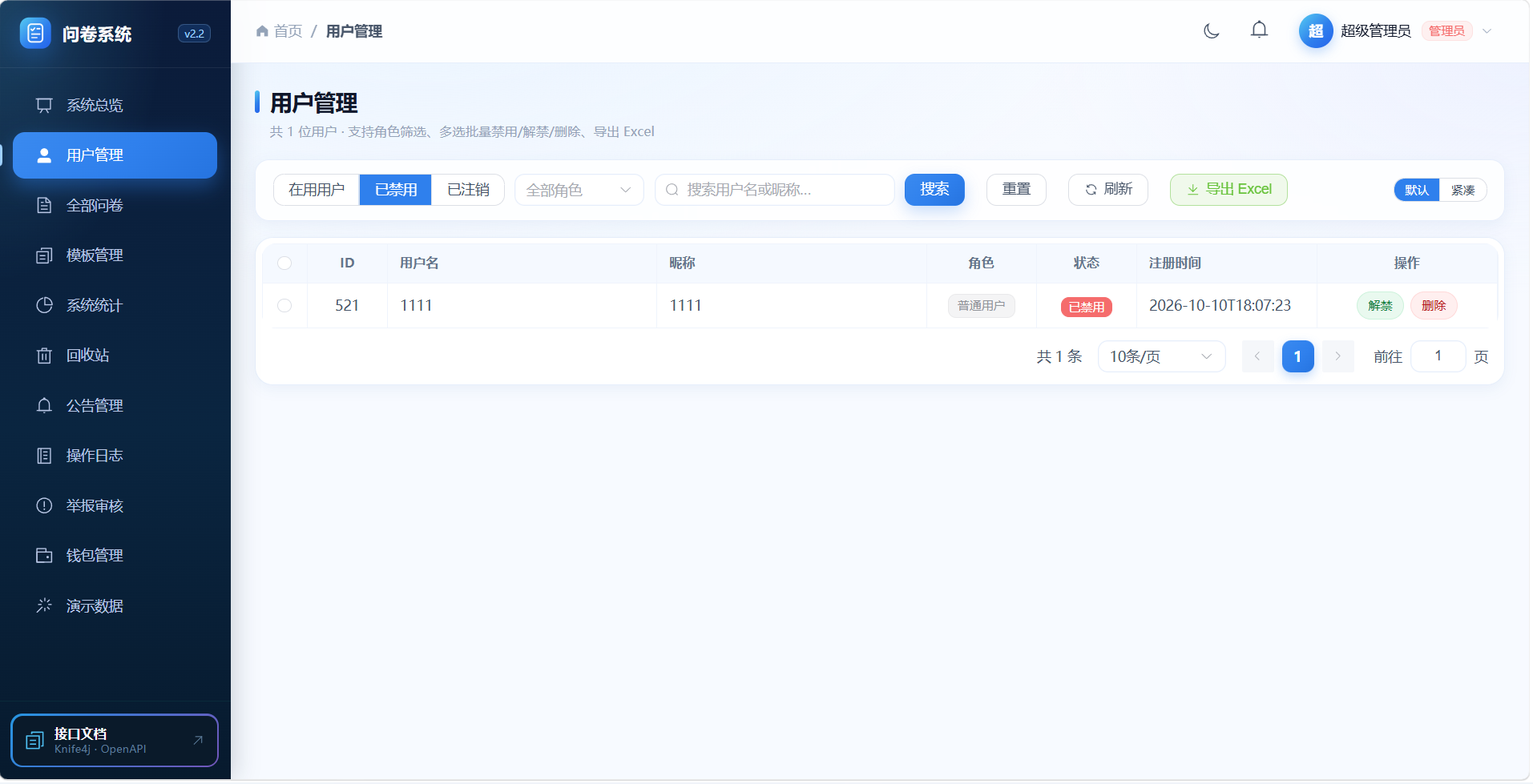
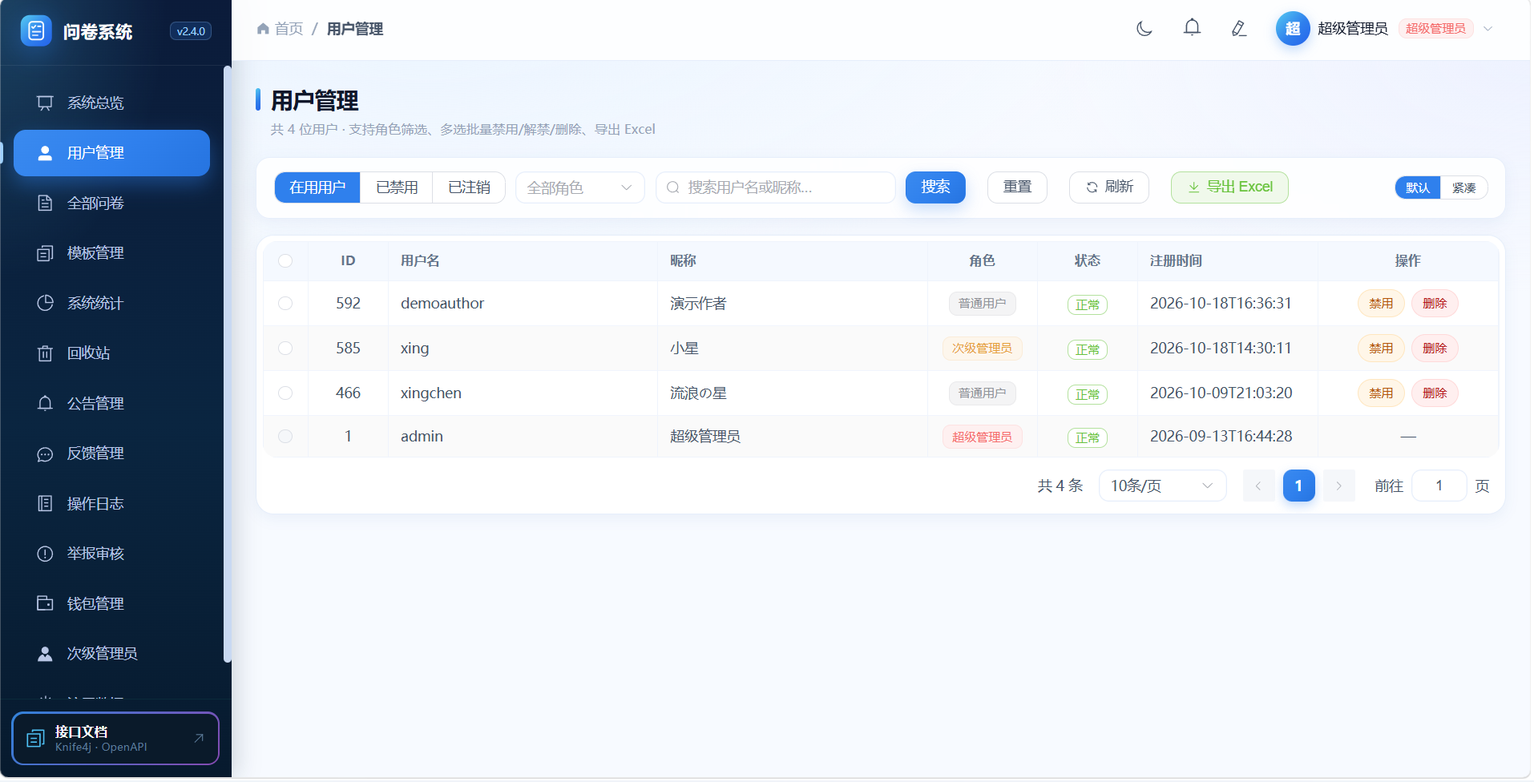
docs: 收尾归档与 README / 系统信息同步
SPRINT 收尾（删已完成项、补上传 / 抽题局限）；AUDIT 128 端点 / 26 表 / 505 例 55 类；ARCHITECTURE 补乱序抽题与选项配图铁律；HISTORY 追加第五十五轮；README 重写并接入 14 张界面截图；总览系统信息与 Knife4j 升 v2.4.0、CI 作业数同步。

diff --git a/survey-frontend/src/views/Dashboard.vue b/survey-frontend/src/views/Dashboard.vue
@@ -160,33 +160,38 @@
           <el-collapse-item name="info">
             <template #title>
               <span class="text-bold">🧩 技术栈与系统信息</span>
-              <span class="panel-hint sys-version">v2.3.0 · 115 端点 · 456 测试 · 23 张表</span>
+              <span class="panel-hint sys-version">v2.4.0 · 128 端点 · 505 测试（55 类）· 26 张表</span>
             </template>
 
             <el-descriptions :column="2" border size="small">
               <el-descriptions-item label="前端">
-                Vue 3.5（全 Options API）· Vite · Element Plus · ECharts · qrcode · Vue Router
+                Vue 3.5（全 Options API）· Vite 8 · Element Plus 2.14 · ECharts 6 · qrcode · Vue Router 4 · ESLint 10
               </el-descriptions-item>
               <el-descriptions-item label="后端">
-                Spring Boot 4 · MyBatis · PageHelper · OkHttp · JJWT · Redis（Lettuce）
+                Spring Boot 4.0.8 · Java 17 · MyBatis 4（注解式，无 XML）· PageHelper 2.1 ·
+                OkHttp 4.12 · JJWT 0.12 · Redis（Lettuce）· Spring AOP（@Scheduled / @Async）
               </el-descriptions-item>
               <el-descriptions-item label="数据库">
-                MySQL 8.x（survey_db · 23 张表 · utf8mb4）
+                MySQL 8.x（survey_db · 26 张表 · utf8mb4）· HikariCP
               </el-descriptions-item>
               <el-descriptions-item label="缓存 / 限流">
-                Redis 5：统计缓存 + 分布式限流 + 熔断降级（不可用时回退进程内计数）
+                Redis 5：统计预聚合缓存 + 分布式限流 + 熔断降级（不可用时回退进程内计数）
               </el-descriptions-item>
               <el-descriptions-item label="安全机制" :span="2">
                 JWT 双 token（access 12h + refresh 7d）· RBAC 权限点 + AOP 切面 · PBKDF2 加盐哈希 ·
-                滑块验证码 · token_valid_after 吊销 · HttpOnly + SameSite Cookie
+                滑块验证码 · token_valid_after 吊销 · HttpOnly + SameSite Cookie · 请求体上限 / CORS 白名单
               </el-descriptions-item>
               <el-descriptions-item label="进阶能力" :span="2">
-                Spring AOP · @Scheduled 定时发布/截止 · @Async 站内通知 · 版本快照/回滚 · 答卷质控 ·
-                矩阵/排序/NPS 统计 · 条件跳转 · 额度钱包
+                Spring AOP · @Scheduled 定时发布/截止/GC · @Async 站内通知 · 版本快照/回滚 · 答卷质控 ·
+                矩阵/排序/NPS 统计 · 条件跳转 · 额度钱包 · 作答乱序 / 随机抽题 · 选项配图上传 ·
+                考试判分 · 签到核销 / 公开名单 · 反馈 / 客服轮询 · 协作邀请确认
+              </el-descriptions-item>
+              <el-descriptions-item label="测试 / CI" :span="2">
+                JUnit 5 · Mockito · MockMvc 全栈权限矩阵 · Maven Surefire · JaCoCo（行覆盖 67.15%）·
+                GitHub Actions 4 个作业（backend / backend-integration / frontend / docs）
               </el-descriptions-item>
               <el-descriptions-item label="AI / 工具" :span="2">
-                Qwen2.5-7B-Instruct（SiliconFlow）· Knife4j（OpenAPI 3）· EasyExcel ·
-                Docker Compose · GitHub Actions（3 个 CI 作业）
+                Qwen2.5-7B-Instruct（SiliconFlow）· Knife4j（OpenAPI 3）· EasyExcel · Docker Compose · Maven Wrapper
               </el-descriptions-item>
             </el-descriptions>
 
@@ -221,9 +226,18 @@ export default {
       /** 项目当前能力标签（与 README 功能特性同步；只作展示，不参与逻辑） */
       featureTags: [
         '十种题型',
+        '逻辑跳转',
         '矩阵/排序/NPS',
+        '考试判分',
+        '实名问卷',
+        '签到核销',
+        '作答乱序',
+        '随机抽题',
+        '选项配图',
         'RBAC 权限',
+        '次级管理员',
         '协作者',
+        '反馈 / 客服',
         '举报审核',
         '额度钱包',
         '模板热度',

diff --git a/survey-frontend/src/layouts/AdminLayout.vue b/survey-frontend/src/layouts/AdminLayout.vue
@@ -6,7 +6,7 @@
       <div class="app-logo">
         <BrandLogo class="logo-mark" :size="34" />
         <span class="logo-text">问卷系统</span>
-        <span class="logo-badge">v2.2</span>
+        <span class="logo-badge">v2.4.0</span>
       </div>
 
       <!-- 菜单（可滚动） -->

diff --git a/survey-backend/src/main/java/com/survey/config/Knife4jConfig.java b/survey-backend/src/main/java/com/survey/config/Knife4jConfig.java
@@ -21,10 +21,10 @@ public class Knife4jConfig {
                 .info(new Info()
                         .title("问卷调查系统 API 文档")
                         .description("基于 Spring Boot 4.0.8 + MyBatis 的问卷调查系统接口文档"
-                                + " · **98** 个方法级端点（公开 12 / 需登录 31 / 需登录+归属 25 / 管理员 30）"
-                                + " · 21 张表 · 339 个后端用例。"
+                                + " · **128** 个方法级端点（公开 13 / 需登录 42 / 需登录+归属 33 / 管理员 40）"
+                                + " · 26 张表 · 505 个后端用例（55 类）。"
                                 + "权限分档与业务前置条件的权威口径见仓库 docs/AUDIT.md")
-                        .version("2.3.0")
+                        .version("2.4.0")
                         .contact(new Contact()
                                 .name("开发者")
                                 .email("dev@example.com")));

diff --git a/SPRINT.md b/SPRINT.md
@@ -5,7 +5,7 @@
 > **数字**：端点 / 表 / 测试 / 页面的唯一出处是 [docs/AUDIT.md](docs/AUDIT.md)，本文不重复。
 > **同层**：[ARCHITECTURE](docs/ARCHITECTURE.md)（铁律与不变量）· [AUDIT](docs/AUDIT.md)（事实矩阵）· [HISTORY](docs/HISTORY.md)（历史归档）。
 
-**一句话**：批次 4 个人中心已实现（待办 / 身份卡权限 / 使用足迹 / 新手引导），待真机视检；批次 3 的反馈 / 客服与深色适配也待视检，之后是 P2 收尾。
+**一句话**：功能全部交付，进入收尾验收——批次 3 / 4、反馈回执、协作者边界、乱序 / 随机抽题、选项配图上传均已完成（128 端点 / 26 表 / 505 例）；剩余只有重启 8080 真机视检、push 6 个提交与 README 截图收尾。
 
 ---
 
@@ -31,7 +31,7 @@
 - 端点：**用户侧 7 + 管理侧 4**；不逐条抄，登记后以 [docs/AUDIT.md](docs/AUDIT.md) 为准。
 - 页面：用户端意见反馈页 + 客服中心（帮助中心 + 在线客服）；管理端 `FeedbackManage.vue`（反馈 / 客服 Tab、详情线程、回复框）。
 - 业务规则：同一用户同一时间只保留 **1 个未关闭的 service 工单**（再点客服续开同一条）；反馈类可多条；工单只关闭、不物理删除。
-- 职责拆分：反馈 = 一屏提交式意见箱（满意度选填 + 建议必填），入口在顶栏铃铛旁的小图标，不列工单、不轮询；提交即完成，管理员回复从消息中心通知、点开只读查看；投诉也走这条（客服中心「投诉建议」直接写成 FEEDBACK），管理端只有「待处理 / 已处理」，没有关闭工单。客服 = 帮助中心（服务时间 + FAQ 搜索）+ 在线客服，只列 SERVICE，入口在侧栏；申请协助已并入在线客服，不单列。数据仍共用 `t_feedback`。
+- 职责拆分：反馈 = 一屏提交式意见箱（满意度选填 + 建议必填），入口在顶栏铃铛旁的小图标，不列工单、不轮询；提交即完成，管理员**回复一次即结单**（不能重复回复），回复从消息中心通知、点开是回执式详情；投诉也走这条（客服中心「投诉建议」直接写成 FEEDBACK），管理端只有「待处理 / 已结单」，没有关闭工单。客服 = 帮助中心（服务时间 + FAQ 搜索）+ 在线客服，只列 SERVICE，入口在侧栏；申请协助已并入在线客服，不单列。数据仍共用 `t_feedback`。
 
 **权限**：管理侧挂 `feedback:handle`（已在可分配权限目录，尚无端点使用）；超管兜底放行，次级管理员按点授权。用户侧必须按**工单归属**校验（`feedback.user_id == 当前用户`），不能只验登录。
 
@@ -59,7 +59,7 @@
 
 - **后端测试**：`mvnw -o test` 全绿；新增 Service / 权限用例；`EndpointAuthMatrixTest` 同步（用户侧越权 403/400，管理侧无 `feedback:handle` 403、有则 200）。
 - **前端 build**：`npx eslint .` 0；`npx vite --configLoader native build` 通过。
-- **8081 冒烟**：`survey_db_test` 真库跑“用户建单 → 管理回复 → 用户 `afterId` 增量 → 已读/关闭”；subadmin 有/无权限对照；跑完停实例、删测试库。
+- **8081 冒烟**：`survey_db_test` 真库跑“用户建单 → 管理回复 → 用户 `afterId` 增量 → 已读/结单（反馈）或已读/关闭（客服）”；subadmin 有/无权限对照；跑完停实例、删测试库。
 - **AUDIT 登记**：2 表 + 11 端点登记，四处一致，跑「审计方法」计数命令。
 - **通知**：管理员回复 → 用户铃铛 + 按工单类型给 `/feedback?ticket={id}`（反馈）或 `/support?ticket={id}`（客服）；用户追消息 → 有 `handled_by` 通知该管理员，link 带 `type` 让管理端停在对应 Tab。
 - **安全**：用户只能读写自己的工单；消息渲染禁止 `v-html`。
@@ -72,14 +72,11 @@
 
 | 优先级 | 事项 | 状态 | 估时 | 依赖 | 备注 |
 |---|---|---|---|---|---|
-| P0 | 批次 3：反馈中心 / 伪实时客服 | 实现完成，待视检 | 6~9 天 | 无 | 2 表 / 11 端点 / 3 页面；真机视检与 8081 冒烟待做 |
-| P1 | 批次 4：个人中心（功能 + 装饰 + 新手引导） | 实现完成，待视检 | 4~6 天 | 无 | 待办 / 权限范围 / 使用足迹 / `GuideTour` 已落地；真机视检待做 |
-| P2 | 判分增强：乱序 / 随机抽题 / 图片选项 | 可选 | 2~3 天 | 随机抽题先定统计分母；图片选项待拍板 | 随机抽题会改统计分母；图片选项只加 `image_url` |
-| P4 | 通知列表分页 | 可选 | 0.5 天 | 前端顶栏轮询逻辑 | SQL 已 `LIMIT 200` 兜底 |
+| P0 | 批次 3：反馈中心 / 伪实时客服 | 实现完成，待视检验收 | 6~9 天 | 无 | 2 表 / 11 端点 / 3 页面；8081 真库冒烟未跑 |
+| P1 | 批次 4：个人中心（功能 + 装饰 + 新手引导） | 实现完成，待视检验收 | 4~6 天 | 无 | 待办 / 权限范围 / 使用足迹 / `GuideTour` 已落地 |
 | P4 | 成功响应契约统一（`ApiResult<T>`） | 可选 | 1 天 | 要动全部前端调用 | 当前前端只看状态码，纯整洁性 |
 | P4 | Actuator metrics / OWASP dependency-check | 可选 | 1~2 天 | CI 时间预算 | dependency-check 拉 NVD 慢，易红 |
 | P4 | Playwright 前端冒烟 | 暂缓 | 2~3 天 | 需能跑无头浏览器的环境 | 本机沙箱跑不了；没本地验证前不写 |
-| P4 | 覆盖率复测（新增功能后） | 待办 | 0.5 天 | 联网拉 jacoco | CI 用 `-Pcoverage`；上次实测未覆盖新功能 |
 | — | 测评（量表计分） | 暂缓 | 未估 | 用户明确“暂时不用动” | 方案在 `archive/问卷系统/问卷系统-测评方案-草案.md`；与判分共用 `score` 机制 |
 | — | README 截图与规模数字同步 | 待 UI / 端点定稿 | 0.5 天 | 批次 4 完成 | 由用户重截，不自制、不 P 图 |
 
@@ -91,20 +88,22 @@
 
 | 事项 | 默认 | 需要你定什么 |
 |---|---|---|
-| 图片选项（P2） | 只存 URL | 只存 URL（约 2 天）/ 做上传（4~5 天）/ 不做 |
-| 随机抽题（P2） | 不启用 | 统计分母按“抽到的题”还是“全题库”；定了才改判分与统计 |
 | 测评（量表计分） | 暂缓 | 要开始才说；方案在 `archive/问卷系统/问卷系统-测评方案-草案.md` |
 
 ### 2.2 需你执行 / 确认
 
-- **重启 8080**（IDEA）：新端点（系统总览、系统统计、协作邀请、反馈 11 个）与权限注解要重启才生效；随后 **Ctrl+F5** 强刷前端。
+- **重启 8080**（IDEA）：迁移已执行（`migration-fill-shuffle-draw.sql`、`migration-option-image-upload.sql`），重启后新代码生效；随后 **Ctrl+F5** 强刷前端。本轮还包含作者端名单端点、`SurveyMapper.insert` 补列、权限改动与协作者邀请的管理员拦截（`invite` / `accept` 均拒 staff）。
+- **图片上传视检**：编辑页选项「配图」上传后缩略图出现、保存后填写页选项显示图片；JPG/PNG/WebP 可传，SVG / 超 2MB 被 400；非作者（无编辑权）调上传接口 400；`uploads/` 目录生成 UUID 文件且 `/uploads/xxx.webp` 匿名可访问；复制问卷后副本保留图片。
+- **乱序 / 抽题视检**：设置页「作答顺序」三个开关；开启后填写页题目/选项随机、刷新不换题；抽题数量 0=不抽、N=每份答 N 道，总分只按抽到的题算；有逻辑跳转时开关禁用且保存被 400 拒绝；编辑器与统计仍按原顺序全量。
 - **真机视检**（沙箱跑不了无头浏览器）：超管 →「次级管理员」提升测试账号 → 该账号进系统总览/统计只显示已授权模块的卡片/Tab；`system:view` 只解锁统计页「资源」；无权限菜单不出现；超管个人中心无「账号注销」；staff 行不可删/禁用/降级；反馈流程见下条。
-- **push**：本地 `main` 已整合为 **5 个提交**（HEAD 以 `git log` 为准），领先 `origin/main`，确认后由你 push 或明确授权。
+- **协作者边界视检**：普通用户邀请管理员账号（超管 / 次级管理员）应 400「不能邀请管理员账号作为协作者」；管理员账号在「我的问卷」不应再出现待接受邀请（存量 3 行已清）。
+- **push**：本地 `main` 领先 `origin/main` **6 个提交**（`feat: 反馈详情改回执式并限制一次回复结单`、`fix: 协作者邀请拒绝管理员账号`、`feat: 填写页支持乱序与随机抽题`、`feat: 选项配图上传与孤儿文件 GC`、`test: 补钱包导出与进阶题型扣费用例`、`docs: 收尾归档与 README / 系统信息同步`），确认后由你 push 或明确授权。
 - **轮换硅基流动 API Key**：jar 内嵌 `application-local.yml`（真实 MySQL 口令 / `sk-` Key / JWT 密钥）；文件从未进 git，但 jar 不要外传；工作区文档里也出现过明文 Key，建议后台吊销重发。
 - **改掉 3 组历史重复选项**（`782/q3365 "h"`、`782/q3402` 空串、`916/q3821 "111"`）：否则这些问卷编辑保存会被 400 拦下。
-- **批次 3 + 拆分真机视检**：侧栏只剩「客服中心」，反馈入口是顶栏铃铛旁的小图标；反馈页是一屏提交（满意度 + 建议，提交后显示成功态，不列工单），通知里的反馈链接打开只读回复；客服中心只有「在线客服」与「投诉建议」（投诉直接写进反馈管理），没有申请协助；客服详情可对话并 3s 轮询；FAQ 搜索正常；同一用户只能一个 OPEN SERVICE（再点客服续开同一条）→ 管理端回复 → 用户落在 `/support` 或 `/feedback`；管理端反馈只有「待处理 / 已处理」与回复，没有关闭工单；subadmin 有 `feedback:handle` 能进「反馈管理」、无权限菜单不出现且接口 403；发送连点验证 `clientMsgId` 幂等。
+- **批次 3 + 拆分真机视检**：侧栏只剩「客服中心」，反馈入口是顶栏铃铛旁的小图标；反馈页是一屏提交（满意度 + 建议，提交后显示成功态，不列工单）；反馈详情是**回执式**（反馈内容 + 管理员回复两块，不是聊天气泡），管理员**回复一次即结单**、再回复应被拒；客服详情是可对话的聊天气泡并 3s 轮询；客服中心只有「在线客服」与「投诉建议」（投诉直接写进反馈管理），没有申请协助；FAQ 搜索正常；同一用户只能一个 OPEN SERVICE（再点客服续开同一条）→ 管理端回复 → 用户落在 `/support` 或 `/feedback`；subadmin 有 `feedback:handle` 能进「反馈管理」、无权限菜单不出现且接口 403；发送连点验证 `clientMsgId` 幂等。
 - **线程排版视检**：抽屉 header 固定、消息区独立滚动、composer 常驻底部；连续同角色消息合并、5 分钟内只显示一次时间；关闭后消息流末尾出现居中「工单已关闭」；Enter 发送 / Shift+Enter 换行，中文输入法确认候选词不误发；窄屏抽屉全宽；深色主题下气泡与边框正常。
-- **重截 README 截图**：UI 定稿后由你重截，不要自制或 P 图。
+- **批次 4 + 签到接龙视检**：两个个人中心的待办数字与落地（未读通知能打开消息中心）、超管/次级管理员权限文案、使用足迹；点「新手引导」才播放（刷新 / 重新登录不自动弹）；新建「接龙」「报名签到」场景后设置里的开关应自动打开；统计页名单卡能签到/取消并显示签到率；填写页公开名单显示「已签到」与前 50 位提示；我的答卷页标题 / 日期筛选正常；普通问卷题目不出现「分值」，开考试模式后操作栏出现「考试总分 N 分」。
+- **重截 / 补 README 截图**：UI 定稿后由你重截，不要自制或 P 图。新增 6 张待补（放 `docs/screenshots/`）：`fill.PNG`（填写页）、`profile.PNG`（个人中心）、`feedback.PNG`（意见反馈回执）、`notification.PNG`（消息中心）、`exam-statistics.PNG`（考试统计）、`answer-order.PNG`（作答顺序设置）；现有 9 张（登录/注册/总览/全部问卷/用户管理/编辑器/统计/AI/接口文档）建议按新 UI 重截。
 
 ### 2.3 已关闭（只作防呆，不要再立项）
 
@@ -131,13 +130,16 @@
 | 答卷质控 | `duration_ms` 由前端上报，**可伪造**；只打标不删；阈值写死；矛盾只判同题干；导出不过滤 | 只作质控提示，不能当安全/计费边界；见 HISTORY 关键词「答卷质控」 |
 | 定时任务 | “先查再改”非原子，多实例会重复发布/互相覆盖分享码 | 当前单实例无影响；上多实例改条件 `UPDATE` 或 `FOR UPDATE` |
 | 请求体 | `RequestSizeFilter` 只按 `Content-Length` 拦；chunked 放行 + 记 warn | 一律拒绝会误杀 publish/view/logout 这类无 body 的 POST |
-| 契约 / 整洁 | 成功响应三种形态（裸字符串 / `{success,message}` / 实体或 `PageResult`）；内联样式仍在；`notification/list` 未分页 | 前端只看状态码，功能正常；通知侧改分页要动顶栏轮询，收益低 |
+| 契约 / 整洁 | 成功响应三种形态（裸字符串 / `{success,message}` / 实体或 `PageResult`）；内联样式仍在；`notification/list` 未分页 | 前端只看状态码，功能正常；通知中心用户拍板：不做分页、不再做体验优化 |
 | 测试 | 无 SQL 性能/索引回归、无缓存一致性测试、前端浏览器交互零自动化 | 无头浏览器在本机沙箱跑不了；E2E 只能 CI 或换环境 |
-| 静态检查 | JaCoCo 已接但新增功能后未复测；Checkstyle / Spotless 未接 | 全库格式统一会产生大量纯格式 diff，收益与风险不成比例 |
+| 静态检查 | Checkstyle / Spotless 未接；覆盖率已复测并补测（488 例时行 67.15% / 分支 58.24%），剩余低覆盖为 Controller 正常路径、`NotificationService`、`CaptchaService`、`RefreshTokenService` | 格式统一会产生大量纯格式 diff；这些层以薄转发 / 框架粘合为主，补测收益低 |
 | 校验 | Bean Validation 只覆盖注册/登录，其余仍手写 if | 两套规则短期并存；按接口逐个迁，迁一个删一处 |
 | Mockito | `mock-maker-subclass` 不能 mock final 类 / 静态方法 | 沙箱禁 Attach API；新测试只 mock 接口 |
 | Docker | `docker-compose.yml` 的 Redis 服务未实测 | 本机无 Docker；只在配置层与本机 Redis 对齐 |
 | 导出 / AI / 题型 | 导出已按题型格式化；AI 生成与演示数据仍只造单选/多选/填空；题型不能直接切换，只能删了重加 | 要精致化只剩 AI 白名单与演示数据；切换题型要考虑“已有答案怎么办” |
+| 上传 / 图片 | 本地磁盘单机存储；无图片压缩 / 裁剪 / 多图；`/uploads/**` 公开可读（无鉴权、无防盗链）；GC 有 30 天宽限，删问卷后磁盘不立即释放 | 单机 Docker 挂 volume 即可；多副本 / 云要换 `StorageService` 的 OSS 实现（接口已留）；公开读是匿名填写页展示图片的必然结果，防滥用靠上传权限 + 大小 / 类型限制 |
+| 抽题 / 乱序 | 与逻辑跳转互斥；抽题只按题数随机，不按题型 / 分组分层；匿名用户清掉 localStorage 会换一套题 | 跳转依赖题目位置，乱序 / 抽题会让目标失效；分层抽题要额外配置表；token 存 localStorage 是零后端状态的折中 |
+| 抽题统计 | 分母是「抽到且作答」：未作答的抽到题不计入分母（与「全题库」口径不同） | 用户拍板的口径；若改「抽到的全部题」需要把每份答卷的抽题集合落库，再加一列 / 表 |
 
 ---
 
@@ -162,7 +164,7 @@
 | 个人中心只做装饰、不做功能 | 已确认功能 + 装饰一起做；纯装饰存在感更低 |
 | 全量删除注释 / 删除历史文档 | 安全/事务不变量会静默回归；历史文档只归档 |
 | 工单物理删除 / 群发全部管理员 | 工单保留审计只关闭；管理员通知按 `handled_by` 精准发 |
-| 文件上传 / 材料题（题组） | 不做；分节说明缓做，先把批次 3/4 交付 |
+| 材料题（题组）/ 图片压缩裁剪 / 题目配图 | 材料题不做；选项配图已做上传（2MB、JPG/PNG/WebP），但不做压缩、裁剪、多图与题目本身配图 |
 
 ---
 

diff --git a/docs/AUDIT.md b/docs/AUDIT.md
@@ -1,4 +1,4 @@
-# AUDIT · 端点权限与事实矩阵（全量 **127** 个方法级端点）
+# AUDIT · 端点权限与事实矩阵（全量 **128** 个方法级端点）
 
 > **定位**：四份主文档之一，**项目数字的唯一出处**（端点 / 表 / 测试 / 页面）。
 > **用途**：动任何 Controller 之前，先在下面四张明细表里找到那个端点，
@@ -7,7 +7,7 @@
 > （问卷是否已发布 / 是否在回收站 / 是否已结束……）。
 > **端点变更历史**（哪一轮加了哪几条、分档怎么订正）见 `HISTORY.md`；本文件只写**现状**。
 >
-> **当前口径（2026-10-19 按代码重核，四处一致）**：**127** 端点 = 公开 **13** + 需登录 **42** + 归属 **32** + 管理 **40**；
+> **当前口径（2026-10-20 按代码重核，四处一致）**：**128** 端点 = 公开 **13** + 需登录 **42** + 归属 **33** + 管理 **40**；
 > Controller **18**；复核命令见 §八，**改动端点后必须重跑**。
 >
 > ★ 改这张表时必须守的规矩：
@@ -41,13 +41,13 @@
 
 | 项 | 值 | 复核方式 |
 |---|---|---|
-| 方法级端点 | **127** | §八 注解计数 |
-| 分档 | 公开 **13** / 需登录 **42** / 归属 **32** / 管理 **40** | §三~§六 活行 |
-| Controller | **20** | `controller/*.java` |
-| 数据库表 | **25** | `sql/init.sql` 的 `CREATE TABLE` |
-| 后端测试 | **473 例 / 51 类** | `mvnw -o test` |
+| 方法级端点 | **128** | §八 注解计数 |
+| 分档 | 公开 **13** / 需登录 **42** / 归属 **33** / 管理 **40** | §三~§六 活行 |
+| Controller | **21** | `controller/*.java` |
+| 数据库表 | **26** | `sql/init.sql` 的 `CREATE TABLE` |
+| 后端测试 | **505 例 / 55 类** | `mvnw -o test` |
 | 前端页面 | **27** | `src/views/**/*.vue` |
-| 前端 API 模块 | **18** | `src/api/*.js` |
+| 前端 API 模块 | **19** | `src/api/*.js` |
 | 具名路由 | **29** | `router/index.js` |
 
 ### 2.2 端点分档
@@ -56,9 +56,9 @@
 |---|---|
 | 公开（白名单，不需登录） | **13** |
 | 需要登录（只能碰自己的数据） | **42** |
-| 需要登录 **+ 归属校验** | **32** |
+| 需要登录 **+ 归属校验** | **33** |
 | 需要**管理员** | **40** |
-| **合计** | **127** |
+| **合计** | **128** |
 
 > ★ 历史分档订正（“总数对、分档错”、明细表漏登记 12 条等）见 `HISTORY.md` 的「审计」条目；
 >   本表只写当前口径。
@@ -142,12 +142,12 @@
 | `GET /api/wallet/admin/reconcile` | `@RequirePermission("wallet:manage")` | ✅ 对账（余额 ≠ 流水汇总 的钱包）。★ 只报告不自动修，确认原因后用 `adjust` 补账 |
 | `GET /api/feedback/admin/page` | `@RequirePermission("feedback:handle")` | ✅ 反馈 / 工单列表（分页，`type` / `status` 可选）。★ 有 `feedback:handle` 即可看全部工单，不复用 `review:handle` |
 | `GET /api/feedback/admin/{id}` | `@RequirePermission("feedback:handle")` | ✅ 工单详情（`afterId` 增量，单次最多 50 条 + `hasMore`）；进入即推进管理端已读水位 |
-| `POST /api/feedback/admin/{id}/reply` | `@RequirePermission("feedback:handle")` | ✅ 回复工单：写入 admin 消息、记 `handled_by`、通知用户；POST 限 20 次/分/用户 |
+| `POST /api/feedback/admin/{id}/reply` | `@RequirePermission("feedback:handle")` | ✅ 回复工单：写入 admin 消息、记 `handled_by`、通知用户；POST 限 20 次/分/用户。★ **反馈（FEEDBACK）只允许回复一次，回复后立即结单**（再回复 400）；客服（SERVICE）可多次回复 |
 | `POST /api/feedback/admin/{id}/close` | `@RequirePermission("feedback:handle")` | ✅ 关闭工单：只改 `status`（不删除），通知用户 |
 
 ---
 
-## 五、需要登录 + 归属校验（**32 个**）
+## 五、需要登录 + 归属校验（**33 个**）
 
 > ★ 第十九轮订正：表头原写 16，表体活行是 **15** —— 表头与表体不一致时**以表体为准**（同样要复核）。
 > ★ 第二十四轮：新增 `GET /api/answer/statistics/survey/{surveyId}`（整份问卷统计，一次取回）⇒ 15 → **16**。
@@ -251,6 +251,7 @@
 | `GET /api/wallet` | 我的钱包余额（没有钱包时自动建 0 余额包）。★ 只取 `X-User-Id`，没有任何查别人的参数 | ✅ |
 | `GET /api/wallet/transactions` | 我的额度流水（分页）。金额**有符号**：入账正、出账负 | ✅ |
 | `POST /api/wallet/recharge` | 模拟充值（演示用，不接真实支付；1~1000 点，必须带幂等键，重复提交只到账一次） | ✅ |
+| `POST /api/upload/option-image` | 上传选项配图（multipart，带 `surveyId`）。★ 按问卷编辑权校验（作者 / editor 协作者），只验登录会变成免费图床；下架问卷拒传。校验 2MB + 文件头魔数（JPG/PNG/WebP），文件名 UUID、存 `app.upload.dir`，返回相对路径 `/uploads/...` | ✅ |
 
 ---
 

diff --git a/docs/HISTORY.md b/docs/HISTORY.md
@@ -95,6 +95,8 @@ grep -n -B3 -A15 '关键词' docs/HISTORY.md
 | 第五十一轮 | 2026-10-19 深夜 | 举报自批校验 + AUDIT 状态列清理 | — | 举报人不能处理自己的举报（后端 400 + 前端「不可自审」）；AUDIT 55 行状态列去掉轮次标记；470 → 471 例 |
 | 第五十二轮 | 2026-10-19 深夜 | 签到 / 接龙名单 / 我的答卷筛选 | — | 新增作者端名单端点（126 → 127）；公开名单带签到状态；统计页名单卡与签到率；我的答卷加标题/日期筛选；471 → 473 例 |
 | 第五十三轮 | 2026-10-19 深夜 | 考试分值显示 + 接龙/签到场景创建修复 | — | 分值只在考试模式显示、总分常驻编辑器；create 落库补签到/名单开关；接龙与报名签到场景创建即生效 |
+| 第五十四轮 | 2026-10-20 凌晨 | 反馈回执式详情 + 一次回复结单 | `d59f5d8` | 反馈不再用聊天气泡，改为「反馈内容 / 管理员回复」回执；管理员回复即结单且只能回复一次（再回复 400）；473 → 474 例 |
+| 第五十五轮 | 2026-10-20 凌晨 | 收尾批次（协作边界 / 覆盖率 / 乱序抽题 / 选项配图） | 9 个提交（`9079db1` → `50900b8`） | 474 → 505 例 / 51 → 55 类；端点 127 → 128；表 25 → 26；覆盖率行 64.89% → 67.15%；两个迁移已执行 |
 
 > **2026-10-19 文档 / 注释维护**：四份主文档拆分（ARCHITECTURE / SPRINT / AUDIT / HISTORY）+ `tools/check-docs.mjs` 自动核对；后端 141 文件与前端 58 文件注释清理（净减约 5000 行注释），440 测试全绿、eslint / vite build 通过。提交范围 `1e79c6b` → `741143a`。
 
@@ -488,6 +490,19 @@ grep -n -B3 -A15 '关键词' docs/HISTORY.md
 - **做法**：分值输入框只在 `gradeEnabled === 1` 时渲染；考试总分常驻编辑器操作栏（`考试总分 N 分`）；`SurveyMapper.insert` 补 `checkin_enabled` / `show_participants` 两列，接龙场景创建即开公开名单、报名签到场景同时开签到，创建请求带上这两个开关。
 - **结果**：不改表；后端 473 例仍绿；场景创建后不需要再进设置手动开。
 - **教训**：新建与更新是两条写路径，只在 `update` 的 SET 里加字段会让"创建时就带默认值"静默失效——场景模板依赖创建时落库，必须同时改 `insert`。
+
+**第五十四轮 · 2026-10-20 凌晨 · 反馈回执与一次回复结单**
+- **触发**：反馈详情与客服工单共用聊天气泡，用户看不出区别；产品上反馈是一次性意见箱，不应来回对话。
+- **做法**：`FeedbackThread.vue` 按 `variant` 分两套形态——反馈是回执（「反馈内容 / 管理员回复」两块卡片，无头像、无气泡）；`adminReply` 对 FEEDBACK 先查 `countAdminMessages`，已回复 → 400，回复成功后立即 `close` 结单；客服工单不受影响，可多次回复。
+- **结果**：反馈与客服在视觉和交互上明确区分；473 → 474 例；端点/表/页面数量不变。
+- **教训**：同一组件承载两种语义时，展示层与写入口必须同时分开——只改文案不改变交互，用户仍然会当成同一个功能。
+
+**第五十五轮 · 2026-10-20 凌晨 · 收尾批次（协作边界 / 乱序抽题 / 选项配图）**
+- **触发**：收尾前用户报「普通用户能向次级管理员发协作邀请」；随后拍板补齐作答乱序、随机抽题与选项配图上传。
+- **做法**：① `invite` / `accept` 都拒 `Role.isStaff`，存量 3 行用 `cleanup-collaborator-staff.sql` 清理；② `-Pcoverage` 复测行 64.89%，补 12 条高价值用例到 67.15%；③ `t_survey` 加乱序 / 抽题三列，`attemptToken` 派生种子（刷新不换题），抽题统计按「抽到且作答」、判分总分只按抽到的题算，与逻辑跳转互斥；④ `t_option.image_url` + `t_upload`，上传端点校验问卷编辑权、2MB、文件头魔数，`StorageService` 抽象 + 本地实现，GC 引用集合 = 活跃选项 ∪ 版本快照，`copySurvey` 复制 `imageUrl`。
+- **结果**：端点 127 → 128；表 25 → 26；用例 474 → 505（51 → 55 类）；两个迁移已执行；9 个提交未 push。
+- **决策 / 放弃**：抽题分母「抽到且作答」（不落库抽题集合）；图片选上传但只做本地磁盘 + 抽象接口；通知中心体验优化按用户要求回滚。
+- **教训**：邀请必须校验目标 `t_user.role`（协作角色与系统角色是两套）；抽题缺 token 时不能按全题库判分；上传 GC 必须把版本快照算进引用集合（复制问卷与快照共享图片）；Spring YAML 重复顶层键会启动失败。
 
 ## 二、关键决策记录（ADR 风格）
 
